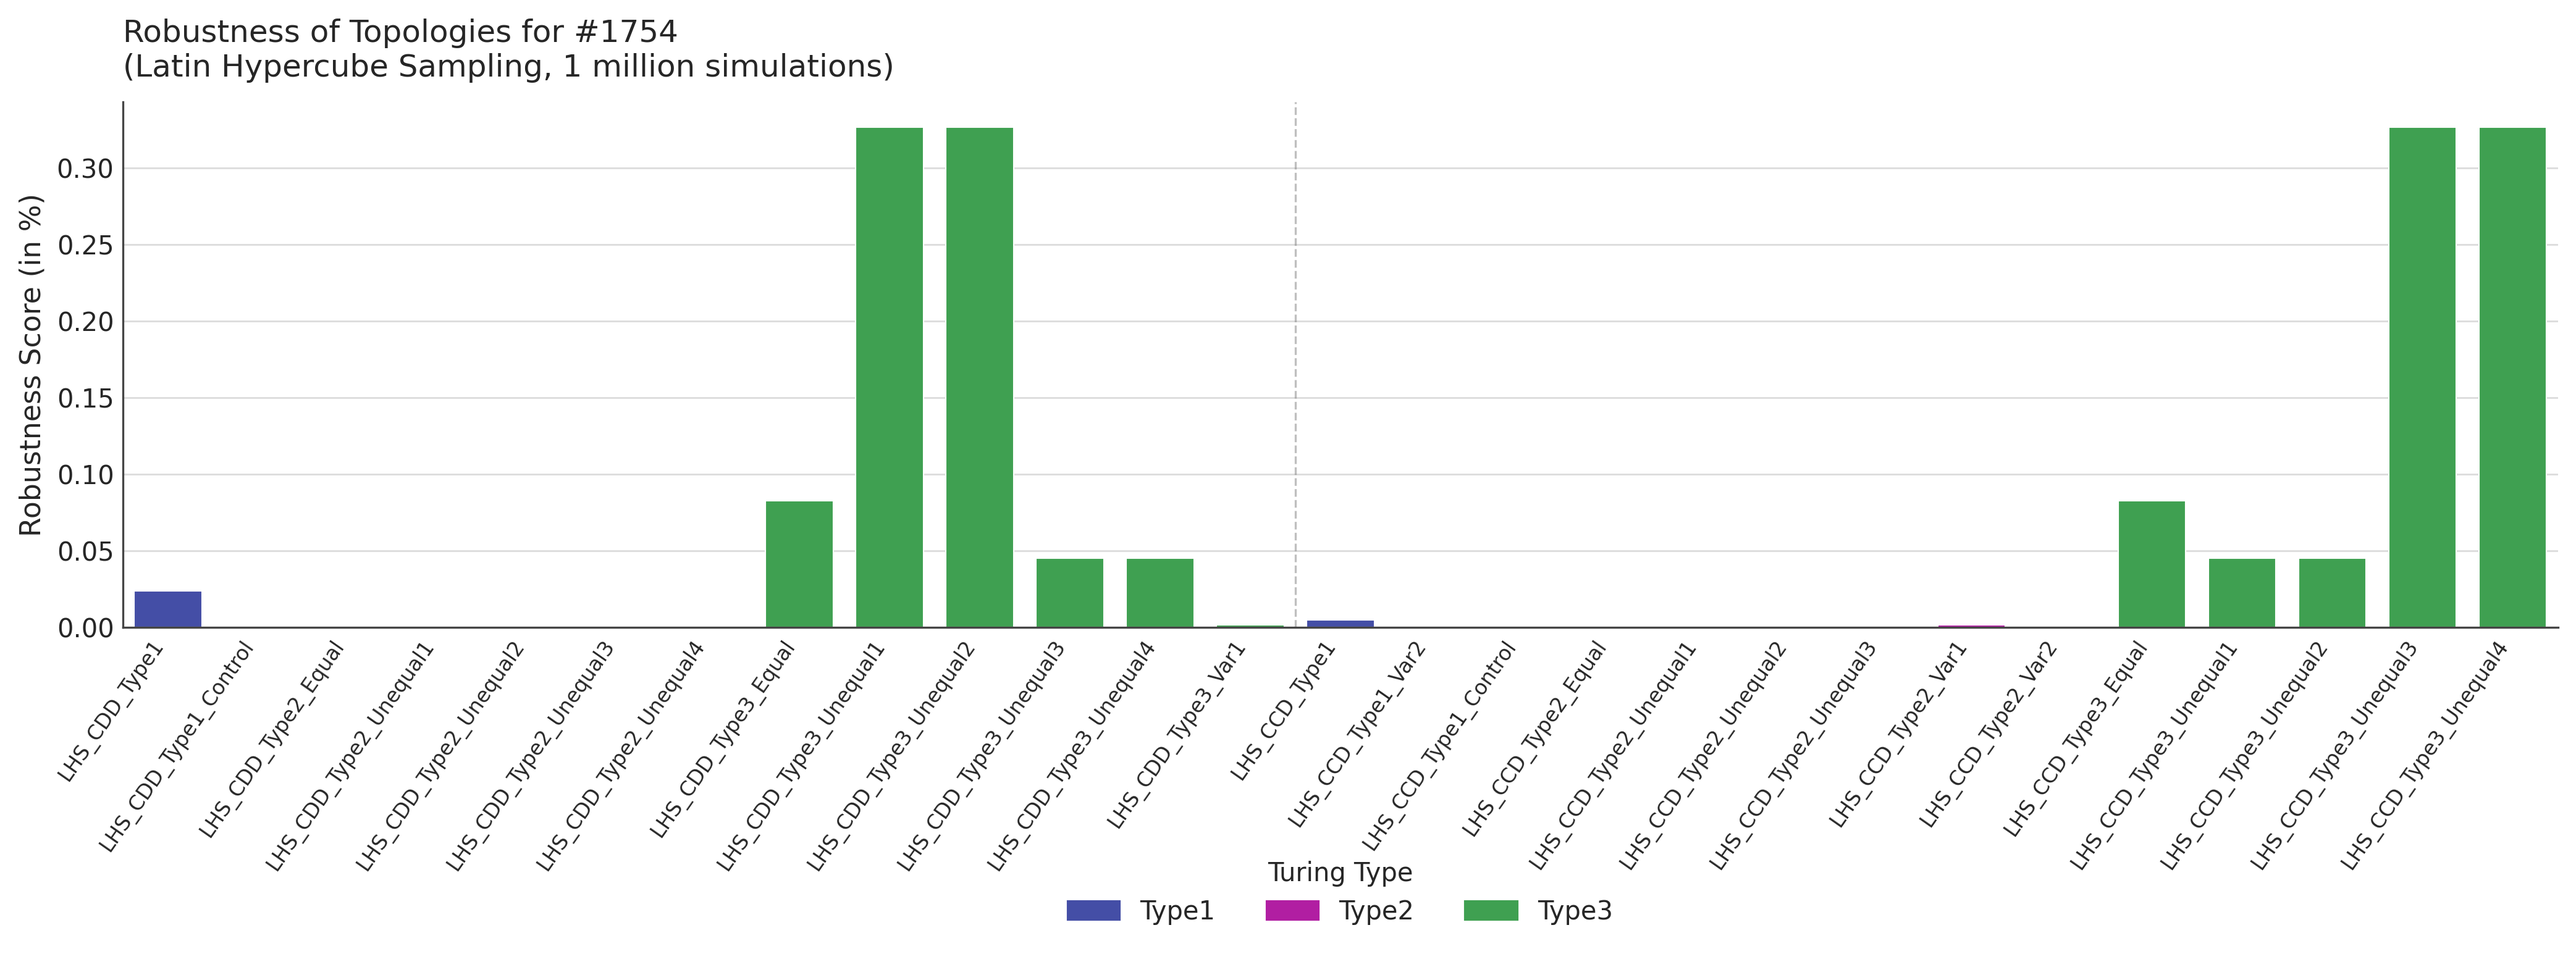
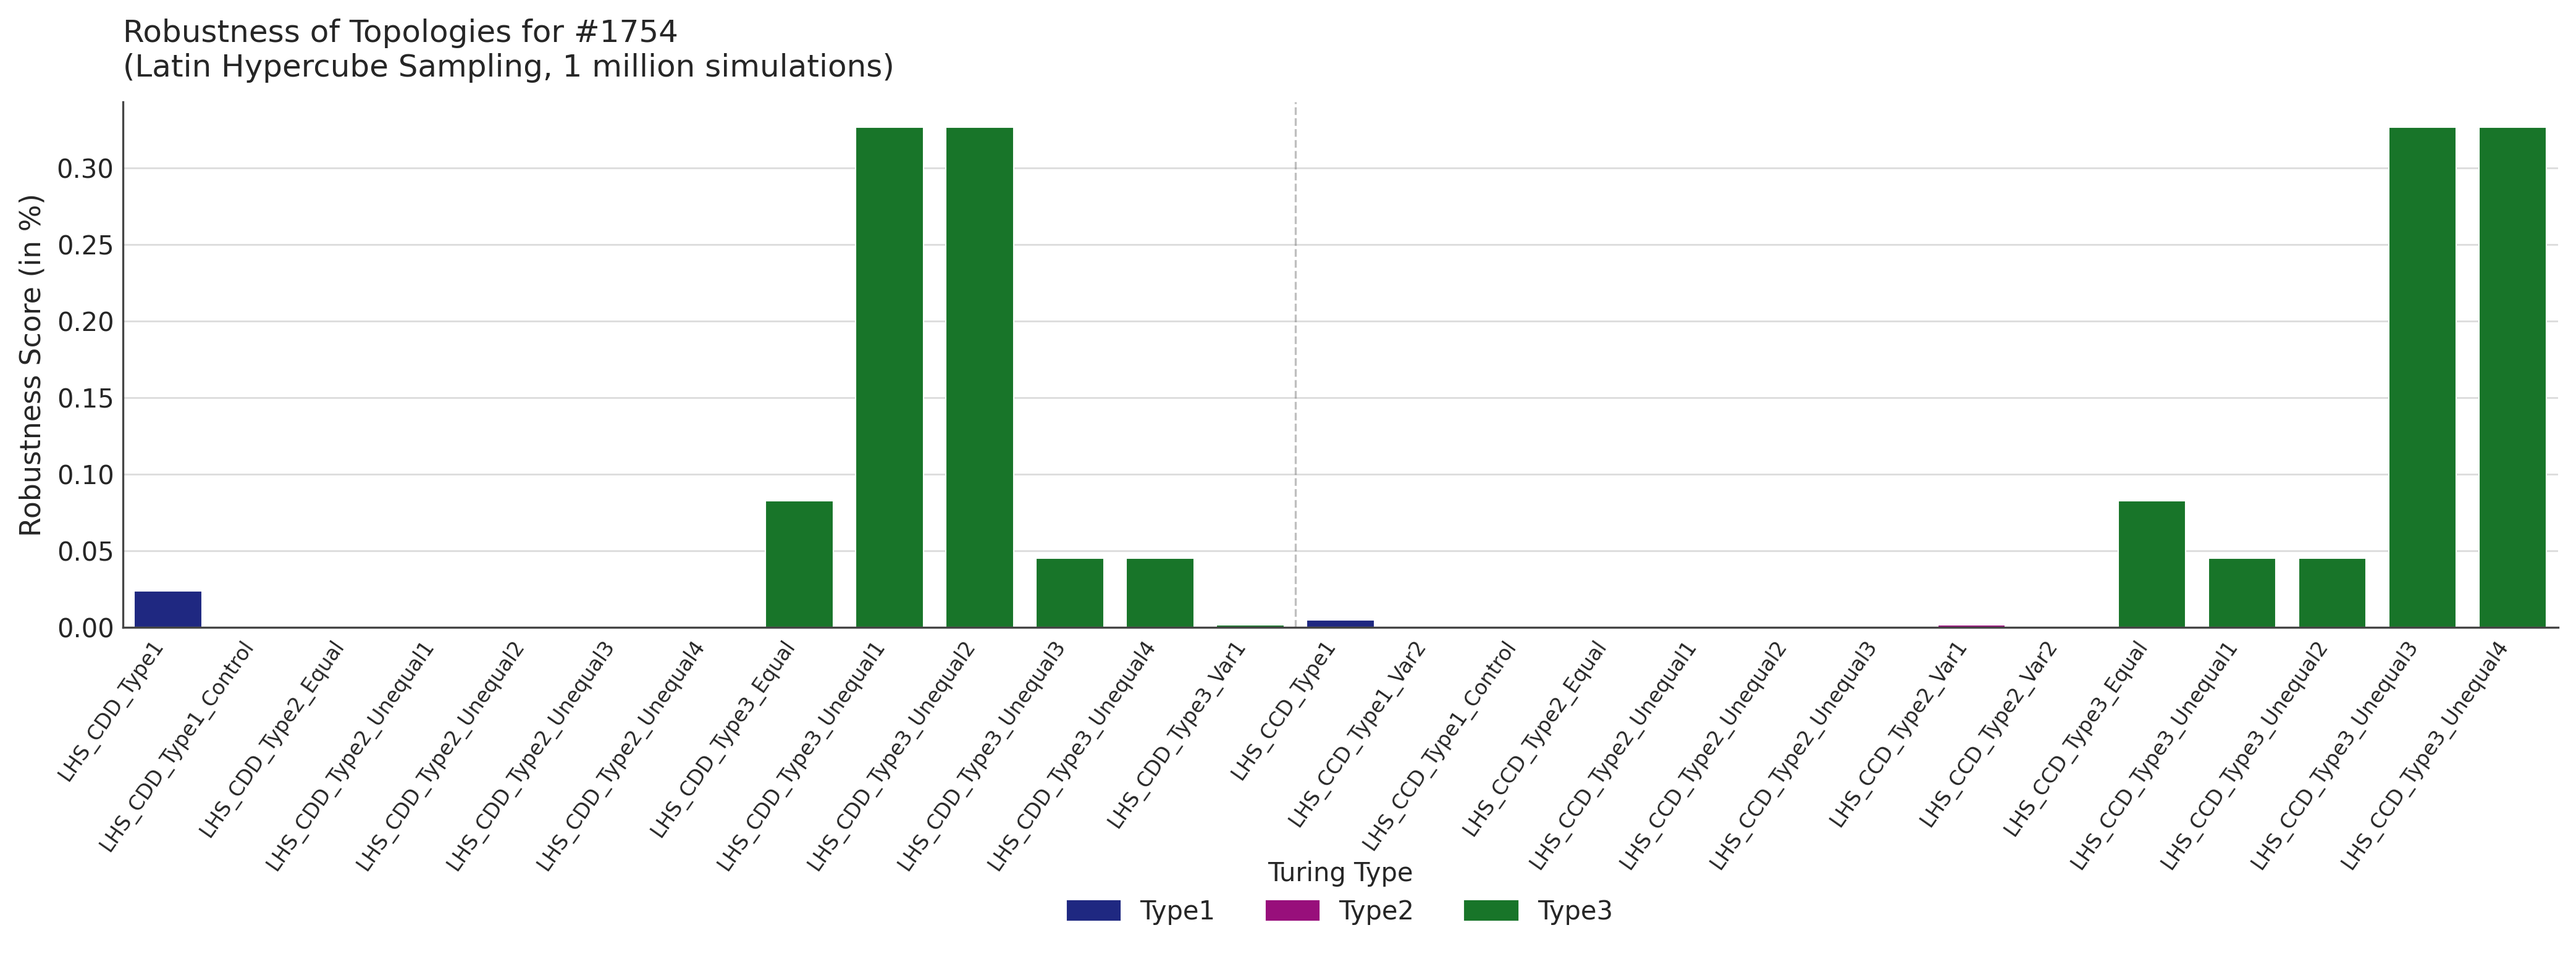
girl what

diff --git a/TopologyRanking/Topology1754/lhs_plots_results_1754.py b/TopologyRanking/Topology1754/lhs_plots_results_1754.py
@@ -4,8 +4,12 @@ import matplotlib.patches as mpatches
 import pandas as pd
 import random
 import numpy as np
+import ast
+import matplotlib.lines as mlines
 
 # have to run this first: module load matplotlib/3.9.2-gfbf-2024a
+# have to run this first: module load SciPy-bundle/2024.05-gfbf-2024a
+# have to run this first: pip install seaborn --user
 
 CSV = "1754_lhs_results_final_1mio.csv"
 OUT_DIR = Path("plots")
@@ -24,9 +28,9 @@ plt.rcParams.update({
 })
 
 TYPE_COLORS = {
-    "Type1": "#444EA6",
-    "Type2": "#B11EA2",
-    "Type3": "#3FA051",
+    "Type1": "#1F2881",
+    "Type2": "#980F7B",
+    "Type3": "#187529",
 }
 
 def save(fig, name):
@@ -43,6 +47,8 @@ def load_data():
     df["turing_type"] = df["config_name"].str.extract(r"(Type[123])")
 
     return df
+
+
 
 ##################################### FIGURE 1: Overview bar chart #####################################
 
@@ -101,49 +107,46 @@ def fig1_overview(df):
 ##################################### FIGURE 2: Scatter of Type 1 to Type 3 #####################################
 
 
-def fig2_dotplot(df):
-    random.seed(42)
+# def fig2_dotplot(df):
+#     random.seed(42)
  
-    fig, ax = plt.subplots(figsize=(7, 4))
+#     fig, ax = plt.subplots(figsize=(7, 4))
  
-    types = ["Type1", "Type2", "Type3"]
+#     types = ["Type1", "Type2", "Type3"]
  
-    for i, t in enumerate(types):
-        subset = df[df["turing_type"] == t]["rob_shaberi_total"]
-        # add small random jitter on x so dots don't stack
-        jitter = [i + random.uniform(-0.15, 0.15) for _ in subset]
-        ax.scatter(
-            jitter,
-            subset,
-            color=TYPE_COLORS[t],
-            s=80,
-            edgecolors="white",
-            linewidths=0.5,
-            zorder=3,
-        )
+#     for i, t in enumerate(types):
+#         subset = df[df["turing_type"] == t]["rob_shaberi_total"]
+#         # add small random jitter on x so dots don't stack
+#         jitter = [i + random.uniform(-0.15, 0.15) for _ in subset]
+#         ax.scatter(
+#             jitter,
+#             subset,
+#             color=TYPE_COLORS[t],
+#             s=80,
+#             edgecolors="white",
+#             linewidths=0.5,
+#             zorder=3,
+#         )
  
-    ax.set_xticks([0, 1, 2])
-    ax.set_xticklabels(["Type 1", "Type 2", "Type 3"], fontsize=11)
-    ax.set_ylabel("Robustness Score (in %, Shaberi Method)", fontsize=11)
-    ax.set_title(
-        "Robustness Scores by Turing Type for #1754\n(Latin Hypercube Sampling, 1 million simulations)",
-        fontsize=12, loc="left", pad=10,
-    )
-    ax.xaxis.grid(False)
-    ax.set_xlim(-0.5, 2.5)
+#     ax.set_xticks([0, 1, 2])
+#     ax.set_xticklabels(["Type 1", "Type 2", "Type 3"], fontsize=11)
+#     ax.set_ylabel("Robustness Score (in %, Shaberi Method)", fontsize=11)
+#     ax.set_title(
+#         "Robustness Scores by Turing Type for #1754\n(Latin Hypercube Sampling, 1 million simulations)",
+#         fontsize=12, loc="left", pad=10,
+#     )
+#     ax.xaxis.grid(False)
+#     ax.set_xlim(-0.5, 2.5)
  
-    fig.tight_layout()
-    save(fig, "1754_lhs_fig2_dotplot")
-
-
+#     fig.tight_layout()
+#     save(fig, "1754_lhs_fig2_dotplot")
 
 
 
 def fig2_new_dotplot(df):
-    import matplotlib.lines as mlines
     random.seed(42)
 
-    fig, ax = plt.subplots(figsize=(7, 4))
+    fig, ax = plt.subplots(figsize=(6, 4))
 
     types = ["Type1", "Type2", "Type3"]
 
@@ -151,7 +154,7 @@ def fig2_new_dotplot(df):
         subset = df[df["turing_type"] == t]
         for _, row in subset.iterrows():
             marker = "^" if "Unequal" in row["config_name"] else "o"
-            jitter = i + random.uniform(-0.15, 0.15)
+            jitter = i + random.uniform(-0.2, 0.2)
             ax.scatter(
                 jitter,
                 row["rob_shaberi_total"],
@@ -174,13 +177,11 @@ def fig2_new_dotplot(df):
     ax.set_xlim(-0.5, 2.5)
 
     handles = [
-        mlines.Line2D([], [], color="#888888", marker="o", linestyle="None",
-                      markersize=7, markeredgecolor="white", label="Equal"),
-        mlines.Line2D([], [], color="#888888", marker="^", linestyle="None",
-                      markersize=7, markeredgecolor="white", label="Unequal"),
+        mlines.Line2D([], [], color="#313131", marker="o", linestyle="None", markersize=7, markeredgecolor="white", label="Equal"),
+        mlines.Line2D([], [], color="#313131", marker="^", linestyle="None", markersize=7, markeredgecolor="white", label="Unequal"),
     ]
-    ax.legend(handles=handles, title="Diffusion", frameon=False,
-              loc="upper center", bbox_to_anchor=(0.5, -0.12), ncol=2)
+
+    ax.legend(handles=handles, title="Diffusion", frameon=False, loc="center right", bbox_to_anchor=(1.3, 0.5), ncol=1)
 
     fig.tight_layout()
     save(fig, "1754_lhs_fig2_new_dotplot")
@@ -273,11 +274,15 @@ def fig3_grouped_topology(df):
 
 
 
+
+
+
+
 ########### RUN THE WHOLE THING ############
 
 df = load_data()
 fig1_overview(df)
-fig2_dotplot(df)
+# fig2_dotplot(df)
 fig2_new_dotplot(df)
 fig3_grouped_topology(df)
 # fig4_diego_vs_shaberi(df)

diff --git a/TopologyRanking/Topology3954/lhs_plots_results_3954.py b/TopologyRanking/Topology3954/lhs_plots_results_3954.py
@@ -225,10 +225,81 @@ def fig4_diego_vs_shaberi(df):
 
 
 
+
+
+def fig2_raincloud(df):
+    from scipy.stats import gaussian_kde
+
+    random.seed(42)
+    types  = ["Type1", "Type2", "Type3"]
+    labels = ["Type 1", "Type 2", "Type 3"]
+
+    fig, ax = plt.subplots(figsize=(8, 6))
+
+    for i, (t, label) in enumerate(zip(types, labels)):
+        subset = df[df["turing_type"] == t]["rob_shaberi_total"].dropna().values
+
+        if len(subset) < 2:
+            continue
+
+        color = TYPE_COLORS[t]
+
+        # ── Half violin (left side) ───────────────────────────────────────────
+        #kde    = gaussian_kde(subset, bw_method=0.4)
+        kde    = gaussian_kde(subset, bw_method=0.3)
+        #y_range = np.linspace(subset.min(), subset.max(), 200)
+        y_range = np.linspace(subset.min() - subset.std()*0.6, subset.max() + subset.std()*0.6, 200)
+        kde_vals = kde(y_range)
+        kde_vals = kde_vals / kde_vals.max() * 0.35  # normalise width
+
+        ax.fill_betweenx(y_range, i - kde_vals, i, color=color, alpha=0.9, linewidth=0)
+
+        # ── Mean line ─────────────────────────────────────────────────────────
+        ax.hlines(subset.mean(), i - 0.38, i, color="black", linewidth=2, zorder=4)
+
+        # ── Jittered dots (right side) ────────────────────────────────────────
+        for val in subset:
+            jitter = i + random.uniform(0.05, 0.35)
+            marker = "^" if any(
+                "Unequal" in row["config_name"]
+                for _, row in df[(df["turing_type"] == t) &
+                                 (df["rob_shaberi_total"] == val)].iterrows()
+            ) else "o"
+            ax.scatter(jitter, val, color=color, marker=marker,
+                       s=50, edgecolors="white", linewidths=0.4, alpha=0.9, zorder=3)
+
+    ax.set_xticks(range(len(types)))
+    ax.set_xticklabels(labels, fontsize=11)
+    ax.set_ylabel("Robustness Score (rob_shaberi_total)", fontsize=11)
+    ax.set_title(
+        "Robustness distribution by Turing Type for #1754\n"
+        "(Latin Hypercube Sampling, 1 million simulations)",
+        fontsize=12, loc="left", pad=10,
+    )
+    ax.xaxis.grid(False)
+    ax.set_xlim(-0.5, len(types) - 0.5)
+
+    # Legend
+    import matplotlib.lines as mlines
+    handles = [
+        mlines.Line2D([], [], color="#888888", marker="o", linestyle="None",
+                      markersize=7, markeredgecolor="white", label="Equal"),
+        mlines.Line2D([], [], color="#888888", marker="^", linestyle="None",
+                      markersize=7, markeredgecolor="white", label="Unequal"),
+    ]
+    ax.legend(handles=handles, title="Diffusion", frameon=False,
+              loc="upper center", bbox_to_anchor=(0.5, -0.10), ncol=2)
+
+    fig.tight_layout()
+    save(fig, "1754_lhs_fig2_raincloud")
+
+
+
 ########### RUN THE WHOLE THING ############
 
 df = load_data()
 fig1_overview(df)
 fig2_dotplot(df)
+fig2_raincloud(df)
 fig3_grouped_topology(df)
 fig4_diego_vs_shaberi(df)

diff --git a/TopologyRanking/results-compare-lhs.py b/TopologyRanking/results-compare-lhs.py
@@ -357,9 +357,6 @@ def fig_phase_interpolated_3954(df):
 
 
 
-
-
-
 def fig_ratio_sensitivity(df):
     import matplotlib.lines as mlines
 
